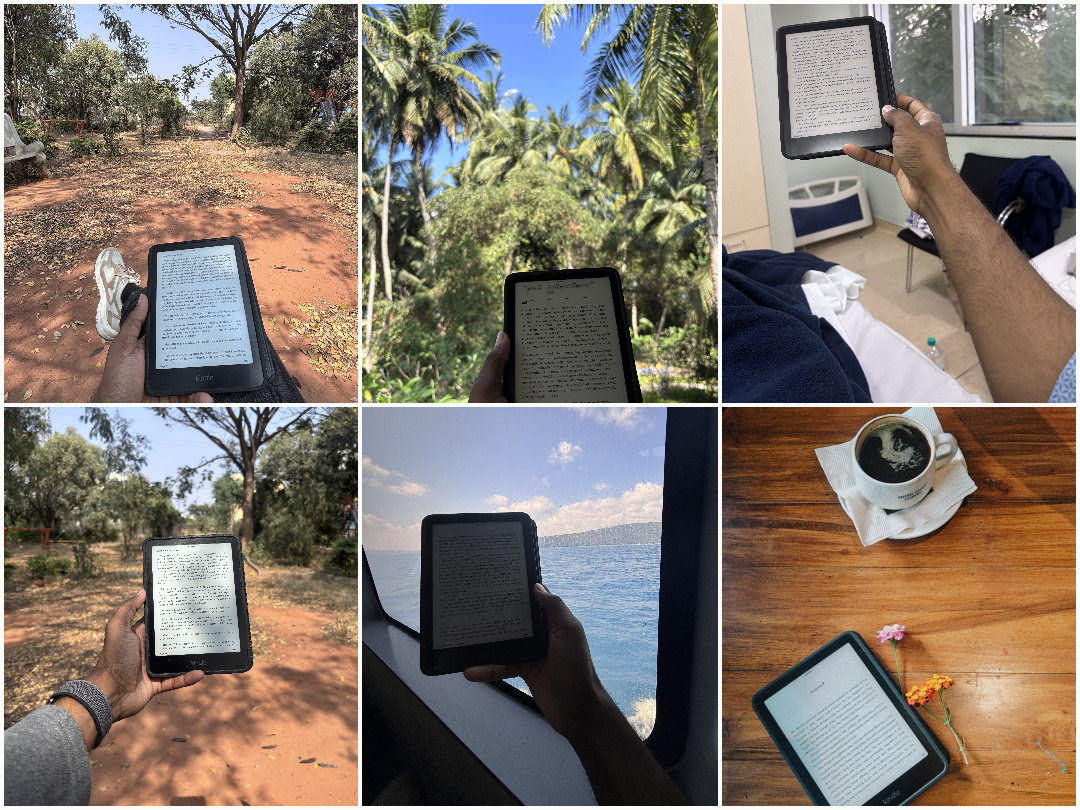
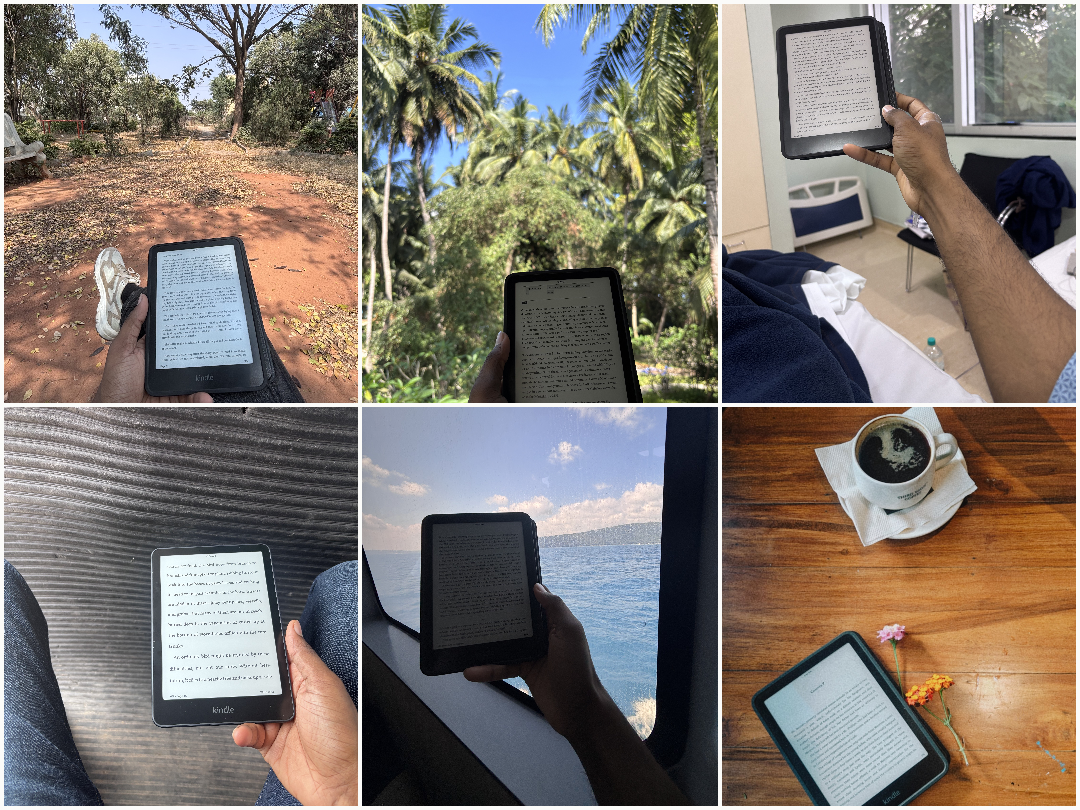
content: expand "I started reading again" blog post and update Kindle image

Changed region(s): [[0.0, 0.4938, 0.3361, 1.0]]

diff --git a/markdown/i-started-reading-again.md b/markdown/i-started-reading-again.md
@@ -1,24 +1,37 @@
 ---
 title: "I started reading again."
-description: "A reflection on rediscovering the joy of reading after a long hiatus."
+description: "and remembered what it feels like giving one thing all my attention at a time"
 category: "Essays"
 date: "2026-03-31"
 ---
 
 # I started reading again.
+
+I am a 90s' kid and I remember the excitement of waiting for a new edition of magazines and comic books. It was a different world, a slower world, where we had to wait for things and that waiting made them more special. I vividly remember the smell of old books, the crispness of the new ones, the satisfaction of turning each page and the anticipation of what is about to come on the next pages. It was a tangible and sensory experience that is hard to replicate in the digital age. Now screens are omnipresent and I am writing on one.
+
+Time passed, I grew up through the times when first keypad phones came and then screens took over. Gradually these screens replaced everything. One by one, my books were replaced by blogs, articles, social media, youtube and then short videos. I consumed more information but I rarely retained any of it. 2013 was the year when high school ended, and I moved to Kota to prepare for JEE (an entrance exam for engineering colleges in India). I left home, with that I left my world of fiction books and replaced it with textbooks and notebooks. 
+
+Even in high school, I had textbooks but it coexisted with my story books, in Kota, books meant only the textbooks for JEE. After 2 years, I left for college and then my interaction with Digital world killed my liking for the print world. I would always try to look for PDF version of textbooks which could easily work with my laptop and slowly reading was limited just to learn the coursework.
+
+Fast forward to 2020, COVID-19 pandemic hit us all and forced us to stay inside. When many of us were rediscovering hobbies, I was stuck in Noida and with some books that the previous tenants in my apartment had left behind. I picked up Catcher in the Rye, and I was hooked. After that I moved back to home spent some time and forgot reading again. 
+
+Cut to 2021, I moved to Bengaluru and started a new job. My life was mostly work, eat and sleep. I decided to gift myself two things, a new bicycle and a mystery box of books.
+
+I got a set of 15 books which were mostly novels from Khaled Hosseini, Audrey Niffenegger, Dan Brown and a few others. I started reading these books, but it took me months to finish them. But slowly, I started craving that feeling of true immersion, of getting lost in someone else's world or grappling with a new idea that only a book can provide. I don't think I have still finished all those mystry books though. But that set out something, I started looking for more books to read, I thought fictions were waste of time, so I started reading more non-fictions and biographies. Eventually these all non-fiction started feeling like textbooks and I again stopped reading.
+
+I started reading properly in 2023 again. I started logging my reads on [Goodreads](https://www.goodreads.com/user/show/129681320-akhilesh-kumar) and took an year challenge to read atleast 6 books.
+
 ![Sinking into a good book after years of digital noise](https://raw.githubusercontent.com/akhilesh-k/blog-content/refs/heads/main/markdown/i-started-reading-again/IMG_2668.JPG)
 
-It feels like a confession, almost, to admit that for a good few years, reading took a backseat. Life got busy, screens became omnipresent, and the quiet ritual of sinking into a book was replaced by endless scrolling and quick-hit entertainment. I didn't realize how much I missed it until I actually started doing it again.
 
-There wasn't one grand epiphany. It was more a slow, dawning awareness that something was missing. My mind felt a bit… fuzzy. Conversations felt shallower. Even my capacity for sustained focus seemed to wane. I craved that feeling of true immersion, of getting lost in someone else's world or grappling with a new idea that only a book can provide.
+The first few books were a bit of a struggle, I would be reading a page and suddenly I would find myself scrolling my phone. It took me months to finish the first book. And honestly somewhere I finished that book for my Goodreads streak rather than for myself. I think I eneded up reading around 12-14 books. This was the time, I met Anurag at my work he happened to be my lead engineer and eventually manager. When he joined our team that worked on Search bar for the ecommerce company, he finished Lucene in action within first few weeks of starting. Why this is worth mentioning? I think this was the time, I started understanding that reading books is not just for getting marks in exams but to understand something deeply. Since I also started reading consistently, I really felt what it means to deeply understand a subject. Our exchanges started revolving around book recommendations which used to be very fun and insightful.
 
-So, I picked up a book. Not a heavy literary tome, or anything I felt I _should_ read, but something light and engaging that had been sitting on my shelf for ages. The first few pages were a bit of a struggle, my attention span a twitchy little beast. But then, a funny thing happened. The words started flowing. The characters began to live. The story pulled me in, and suddenly, the phone buzzing in the other room, the endless notifications – they all faded away.
-
-It's been a few months now, and that initial spark has turned into a steady flame. I've rediscovered the sheer joy of reading. It’s not just about consuming content; it’s about nurturing a part of myself that had been neglected. I’m finding my focus returning, my vocabulary expanding, and my perspective broadening with every new story and idea.
+Moving on to 2025, I gifted myself a Kindle on my birthday. I was a bit hesitant initially thinking it would be just another gadget that I would stop using after few weeks. But that was not the case. I started reading more than ever. The best thing about Kindle is I carry it everywhere. I have carried it to mountains, beaches, grocery shopping, work commute, heck, even dates too!
 
 ![Kindle and me, probably the best investment I have ever made](https://raw.githubusercontent.com/akhilesh-k/blog-content/refs/heads/main/markdown/i-started-reading-again/kindle_and_me.png)
 
-I’m reading during my commute, before bed instead of staring at a screen, and even sneaking in a few pages during lunch. There's no pressure to finish a certain number of books, or to stick to a particular genre. It’s simply about the pleasure of the act itself.
+I’m reading during my commute, before bed instead of staring at a screen, and even sneaking in a few pages during lunch. There's no pressure to finish a certain number of books, or to stick to a particular book, I keep reading 2-3 at a time. It’s simply about the pleasure of reading itself.
+
 ![taking kindle on dates!](https://raw.githubusercontent.com/akhilesh-k/blog-content/refs/heads/main/markdown/i-started-reading-again/taking_kindles_on_date.jpg)
 
 If you, like me, have found yourself drifting away from reading, I can’t recommend enough just picking up that one book. The one that’s been calling to you, however quietly. You might be surprised at what you rediscover, not just within its pages, but within yourself too.
